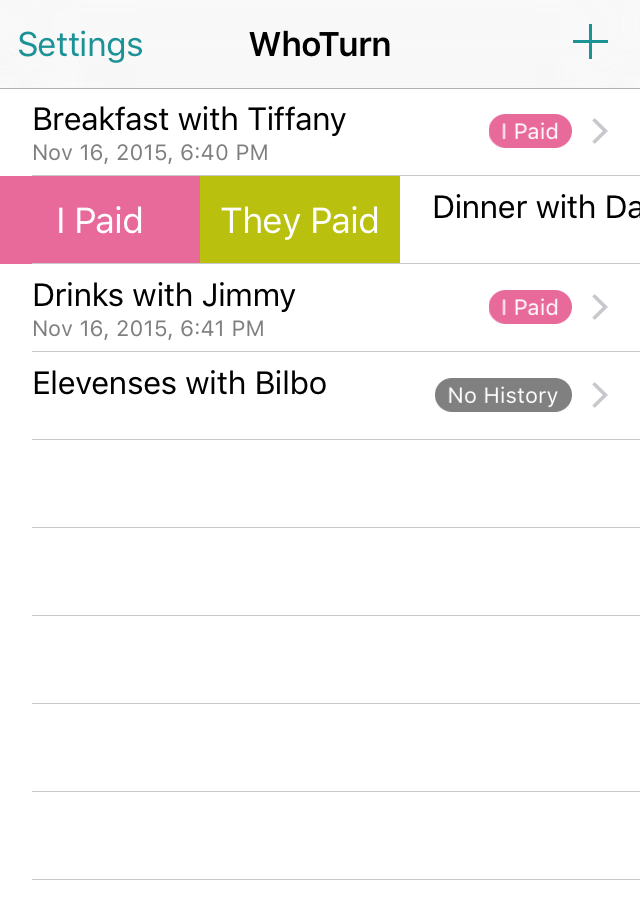
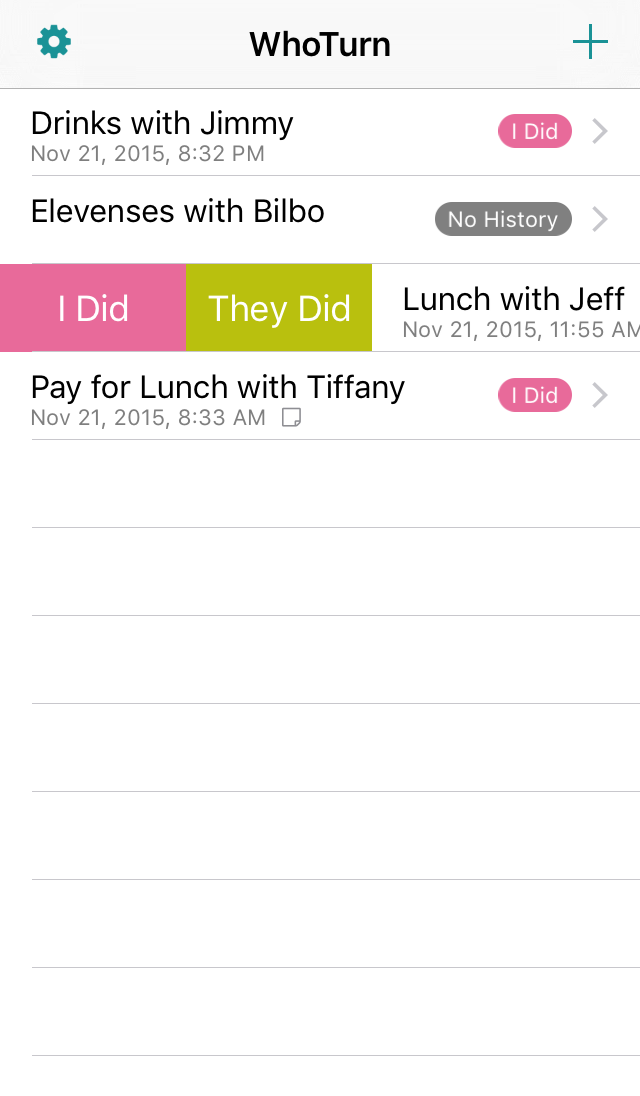
website updates

Changed region(s): [[0.0, 0.0, 1.0, 0.4565], [0.375, 0.0304, 0.625, 0.0609], [0.9062, 0.0304, 0.9375, 0.0609]]

diff --git a/contents/projects/whoTurn/index.md b/contents/projects/whoTurn/index.md
@@ -5,14 +5,10 @@ template: page.jade
 
 <img src="main.png" style="border: 1px solid black" class="pull-right img-responsive" width="200"  />
 
-<center>
-<p style="font-size: 24pt; font-family: Brush Script MT">“Keep track of the deadbeats who owe you lunch.”</p>
-</center>
+WhoTurn is a tool for those of us who have outsourced their longterm memory to their iPhone.  It tracks who turn it is.
 
-WhoTurn is a tool for those of us who have outsourced their longterm memory to their iPhone.  It tracks who paid last.
-
-* Add things to track (ie. "Lunch with Joe")
-* Track who paid last
+* Add things to track (ie. "Pay for Lunch with Joe")
+* Track who did it last: "I did" or "They did"
 * Delight in the fact that you now have one less thing to remember
 
 That's it.
@@ -20,17 +16,16 @@ That's it.
 ### Features
 
 * Track an **unlimited** number of turn based things (ie. Lunch with Jimmy)
-* Easily see the last time you did that thing and who paid
+* Easily see the last time you did that thing and who did it
 * Keep and view history
 * Snappy sound effects to thrill you
 * Settings page to turn off the sound effects once they cease to thrill you
 * Spotlight integration
-* Find out if your friends is a deadbeat
 
 ### Planned Features
 
 * iCloud sync
-* Per-person frequency with reminders if you're overdue for lunch
+* Reminders
 
 ### Support
 
@@ -43,3 +38,4 @@ WhoTurn makes use of the following 3rd party libraries:
 * [PKHUD](https://github.com/pkluz/PKHUD) - pop-up HUD display
 * [TDBadgedCell](http://www.tmdvs.me/TDBadgedCell/) - for nifty badges in the table cells
 * [MGSwipeTableCell](https://github.com/MortimerGoro/MGSwipeTableCell) - for the swipe menu on the table cells
+* [Onboarding](https://github.com/mamaral/Onboard) - tool for the welcome wizard
